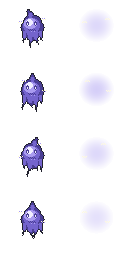
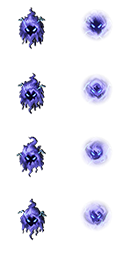
The Storm Wisp wears the supplied sheet
Drop-in at the same 128x256 it already used. gen_mobs.gen_stormwisp stops
writing and stays as the record of the generated one; its bestiary icon
is still drawn.

Claude-Session: https://claude.ai/code/session_01HnNZ8fgewte9549T5gLwyk

diff --git a/tools/asset_generator/generate_assets.py b/tools/asset_generator/generate_assets.py
@@ -103,7 +103,7 @@ CONVERTED = ("tiles/skyway.png", "tiles/skyway_splat.png",
              # The two spire cats on vanilla's DUCK sheet (384x320), the
              # spark beetle and the cat basket.
              "mobs/spirecatblack.png", "mobs/spirecattabby.png",
-             "mobs/sparkbeetle.png", "mobs/glowmoth.png",
+             "mobs/sparkbeetle.png", "mobs/glowmoth.png", "mobs/stormwisp.png",
              "objects/catbasket.png",
              "mobs/crookedgolem.png", "mobs/rarecrookedgolem.png",
              "mobs/crookedarmadillo.png",
@@ -258,7 +258,8 @@ def main():
 
     # Mobs + bestiary icons
     gen_mobs.gen_zephyrray(f"{out}/mobs/zephyrray.png")
-    gen_mobs.gen_stormwisp(f"{out}/mobs/stormwisp.png")
+    # mobs/stormwisp.png is supplied art now; gen_mobs.gen_stormwisp stays as
+    # the record of the generated one. Its bestiary icon is still drawn.
     gen_mobs.gen_skystonegolem(f"{out}/mobs/skystonegolem.png")
     gen_mobs.gen_icons(f"{out}/mobs/icons")
     # The Mistserpent: worm sheet, dive mask, shadow and bestiary icon.

diff --git a/docs/OVERVIEW.md b/docs/OVERVIEW.md
@@ -41,7 +41,7 @@ come in packs around loot and leave the rest of the sky quiet.
 
 | id | role | art |
 |---|---|---|
-| `skystonegolem`, `zephyrray`, `stormwisp`, `galehound`, `dawnpiercer` | Sky hostiles | ours (generated) |
+| `skystonegolem`, `zephyrray`, `stormwisp`, `galehound`, `dawnpiercer` | Sky hostiles | **stormwisp = your sheet**, rest generated |
 | `rimesentry`, `auroraflake` | Sky hostiles (arsenal tier) | **auroraflake = your sheet**, rimesentry generated |
 | `mistserpent` (+ body, tail) | the sky's roaming worm, mistsea only | **your sheets**, drawn on vanilla's Crystal Dragon format |
 | `crookedgolem`, `rarecrookedgolem`, `crookedarmadillo` | Outlands | ours |
